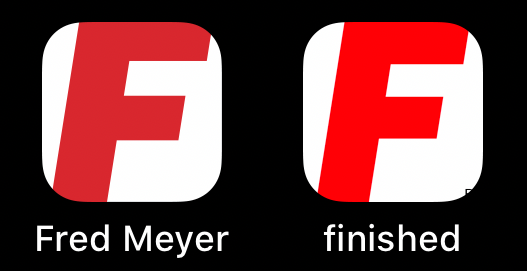
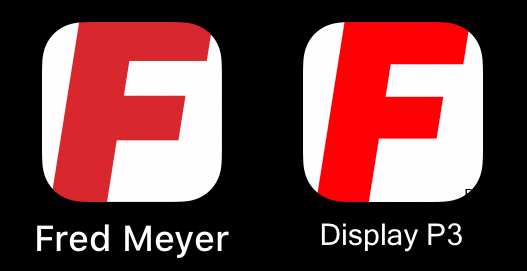
starting fresh for everyone

Changed region(s): [[0.6072, 0.8266, 0.8805, 0.9446]]

diff --git a/README.md b/README.md
@@ -67,7 +67,7 @@ Another thing that was bothering me was the new icon seemed to use a bit duller 
 
 ![xscope](https://github.com/sleeve/fredmeyer-app-icon/blob/master/screenshots/xscope.png)
 
-1. There's actually a [Fred Meyer vector logo](https://www.fredmeyer.com/content/v2/binary/image/fredmeyer_svg_logo-desktop-1556238715657.svg) on the website that has a fill color of #ED1C24.
+1. There's actually a Fred Meyer [vector logo](https://www.fredmeyer.com/content/v2/binary/image/fredmeyer_svg_logo-desktop-1556238715657.svg) on the website that has a fill color of #ED1C24.
 2. The [favicon](https://www.fredmeyer.com/favicon.ico) on the website uses #ED1C24.
 3. The [vector logo](https://upload.wikimedia.org/wikipedia/commons/7/79/Fred_Meyer_logo.svg) on Wikipedia uses #ED1C24.
 4. The [vector logo](https://www.brandeps.com/logo-download/F/Fred-Meyer-01.zip) on brandeps.com uses #ED1C24.
@@ -75,14 +75,64 @@ Another thing that was bothering me was the new icon seemed to use a bit duller 
 
 This seemed like enough evidence that #ED1C24 was the real red brand color. We'll use this as the red color when re-creating the icons. I could be totally wrong in assuming this is the correct red as the brand colors may have been recently updated. I just think it's a bit more saturated and looks better on screen so we're going with it.
 
-More recent iOS devices have wide color gamut displays so I wanted to learn more about digital color spaces and see if we could create better looking icons using the Display P3 color space. Xcode now supports using two different icon assets with for both sRGB and Display P3 color profiles. I started off by keeping the sRGB color hex code #ED1C24 and just assigning the Display P3 color profile to it. It looked amazing on screen next to the current app icon but it was way more saturated and didn't quite feel right.
+More recent iOS devices have wide color gamut displays so I wanted to learn more about digital color spaces and see if we could create better looking icons using the Display P3 color space. Xcode now supports using two different icon assets with for both sRGB and Display P3 color profiles. I started off by keeping the sRGB color hex code #ED1C24 and just assigning the Display P3 color profile to it. It looked amazing on screen next to the current app icon but it was way too vibrant and saturated. It almost looked like neon red and it just didn't feel quite right.
 
 ![display_p3](https://github.com/sleeve/fredmeyer-app-icon/blob/master/screenshots/display_p3.png)
+
+I read a lot of articles and blog posts about working with different color spaces and how to use color profiles correctly. Instead of assigning a Display P3 color profile to the same sRGB color code I should have converted the colors into Display P3. After a lot of trial and error I came to the conclusion that we wouldn't see any real benefit by adding Display P3 versions of the app icons. The red brand color is already within the sRGB color space so by converting it to Display P3 our eyes would still see the same red color. Display P3 color profiles work best on photographs and more complex artwork. You just can't really see any difference on flat app icons that use a minimal color pallet.
+
+## Pixel Fitted
+
+We pretty much have all we need now to start to re-create the icon. We were able to get a copy of the vector logo so we can copy the "F" from it and have it be as sharp as possible in all resolutions. We have the red brand color that we're going to fill the "F" with. That's about all we need to get started but there is one more improvement that I'd like to add to all the icons. It's called [pixel-fitting](https://dcurt.is/pixel-fitting). If we zoom into one of the current app icons we can see the effects of not pixel-fitting. Take a look at the horizontal edges within the "F" path. Notice how they're blurry and have a line of more pink-ish pixels where it transitions from red to white.
+
+![blurry_pixels](https://github.com/sleeve/fredmeyer-app-icon/blob/master/screenshots/blurry_pixels.png)
+
+We'll have to manually adjust these horizontal vector points for all 13 icon sizes that we need for Xcode. This is a lot more work to remove most of the fractional pixels but it's going to produce super sharp icons. The smaller icon sizes will see the most benefit. We're technically modifying the actual shape of the "F" but it shouldn't be noticeable if we do correctly.
+
+## Starting Fresh (For Everyone) 😉
+
+I think we have our plan laid out and have everything that we need now to re-create the icons. We're going to be using [Sketch](https://www.sketch.com/) as our vector editor. Here are the steps we're following starting with the largest 1024x1024px size:
+
+1. Create a 1024x1024 square and fill it with white #FFFFFF, this is our icon background.
+2. Copy the "F" vector path from the .svg we found on the website and paste it on top of the white background.
+3. Stretch and fit the "F" path (while maintaining its aspect ratio) to be as tall as the background and centered within it.
+4. Select the "F" path and fill it with the red brand color #ED1C24.
+5. In order to maintain the correct angles in the "F" path we need to draw 6 vector guidelines around the horizontal points that we'll be moving before we start pixel-fitting. These will help us place the vector points correctly and not throw off the geometry of the "F" path.
+
+![guidelines](https://github.com/sleeve/fredmeyer-app-icon/blob/master/screenshots/guidelines.png)
+
+6. Now we can zoom way into those vector points along the horizontal axis to see the fractional pixels that we want to turn into full pixels. Drag the horizontal vector point to the closest pixel edge on the y-axis and then center it within the guideline we created on the x-axis. Do this for all 6 horizontal points.
+
+![pixel_fitting](https://github.com/sleeve/fredmeyer-app-icon/blob/master/screenshots/pixel_fitting.gif)
+
+7. Hide the guideline layers so only the background and "F" path are visible.
+8. Export the icon at 1x size as a .png with an sRGB color profile and uncheck both "Interlace PNG" and "Save for web".
+
+Most designers would just stop here after creating the 1024px version of the icon and then use it to create scaled down versions of the icon. There's even an official template within Sketch that automates this super quickly. We could use this method as it's a lot faster to create all the sizes of icons but we would miss out on all the pixel-fitting improvements if we automate it. This automation also seems to be the cause of our original grey banding animation bug. The designer created the original 1024px version and kicked off the automation that down-scaled and created all the smaller icons sizes. I'm not sure what tool they used but somewhere during that procedure the grey border started to appear on most of the icon sizes.
+
+Since we're choosing to include pixel-fitting we'll need to repeat these steps for the 12 other required iOS app icon sizes. This was by far the most time consuming step of the whole project. The results turned out great though.
 
 --------------------------------------------------------------------------
 
 
-Wanted to investigate using Display P3 versions of the icon but through a lot of trial and error I'm pretty sure the difference between the versions would be negligible. I was getting confused switching between both sRGB and Display P3 color spaces/profiles. I was keeping the same 8-bit red color hex code (#ED1C24) for both the sRGB and Display P3 image export but just assigning them their respective color profiles. This was producing a correct sRGB image but by just assigning the Display P3 color profile to the Display P3 image it was making the red color way more saturated and vibrant than it really should be. At first I thought this is just what Display P3 images should look like as they're supposed to be able to display more colors that we're not used to seeing in the sRGB world. The problem is that the red sRGB color value is already within the Display P3 gamut so we shouldn't really be seeing any new crazy vibrant wider colors.
+
+Checking the exported image it has an alpha channel included within it which we don't need. pngcrush seems to remove this one with -brute. maybe be a good idea to find specific imagemagick command to remove all unneeded png chunks. what is a needed chunk though?
+
+
+Seeing some bugs or potential issues with how xcode is bundling icons? why does it create AppIcon76x76@2x~ipad.png in the .app bundle when I only have icon assets within my asset bundle? what are packed assets when looking at the assets.car file within asset catalog tinkerer? why is fred_meyer-ios_icon-srgb-180px-60pt_Normal@2x.png and fred_meyer-ios_icon-srgb-180px-60pt_Normal@3x.png the same after extracting from asset catalog tinkerer? could that be from the packed asset? is it just a bug with asset catalog tinkerer? why do files get the "_Normal" suffix added to them after using asset catalog tinkerer? why do the extracted images have more metadata included with them compared to when I added them to the project? Don't have time to dig into this anymore... I just know that the png image assets that you include within an xcode project will not necessarily match what you can extract from the Assets.car file with third party tools. Not sure if its the way Xcode compiles them or if it is the third party tools.
+
+optipng is amazing and even better than pngcrush. `optipng -v -o7 -strip all -keep image.png`
+the file size savings is great on the larger 1024px app store icon but not quite as much on the smaller images. still a slight improvement though over pngcrush as we're able to strip out a bit more of the metadata with optipng.
+
+optipng (5 test files) = 14,627 bytes (29 KB on disk)
+pngcrush (5 test files) = 21,082 bytes (33 KB on disk)
+
+learning and trying understand more about color spaces, color profiles, wide-gamut, rgb, srgb, display p3 and hex codes. sketch, imagemagick, identify, pixelmator, preview, colorsync utility, xscope, xcode, ios simulator, pngcrush, kaleidoscope, asset catalog tinkerer, acextract, apple configurator 2, iterm2, visual studio code, tower, firefox, git, github, markdown, pixelmator pro, optipng, licecap, quicktime player, homebrew,
+
+I think the outcome of this project does a lot of things correctly but I'm sure I overlooked or mis-interpreted something along the line. Would love to hear feedback from anyone if they notice anything out of the ordinary with my work.
+
+![good_job](https://media.giphy.com/media/8xgqLTTgWqHWU/giphy.gif)
+
 
 **App Logo/Icon colors:**
 
@@ -143,35 +193,3 @@ Fred-Meyer-01.eps (https://www.brandeps.com/logo-download/F/Fred-Meyer-01.zip) -
 
 #eb1c25 \
 Fred-Meyer-01.jpg (https://www.brandeps.com/logo-download/F/Fred-Meyer-01.zip) -- looks closer to fm.com svg colors.
-
-
-
-
-
-
-# Starting Fresh (For Everyone) 😉
-After the main investigation we have enough data to create a fresh new app icon set with all the fixes applied along with some bonus fixes.
-
-1. creating a new sketch document with a 1024x1024px white square background layer.
-2. open the svg we got from fm.com also within sketch, copy the "F" vector path within it and paste it in our new document over the white background
-3. select the "F" path and make sure its in front of the background layer and then update the fill color to #ed1c24 that was the color used in the original svg.
-4. stretch the "F" path to take up the full height of the 1024px background, be sure to hold shift while stretching it to maintain aspect ratio. sketch should help us out a bit by snapping to the top and bottom edges when we're close.
-5. Once the "F" path is tall enough at 1024px we need to make sure its also centered within the background, drag the "F" path around a bit and sketch should display some centering guidelines and snap to them when we're close to them.
-6. So that should be enough work to be able to now export a .png from it but lets make one more minor improvement that has to do with pixel hinting. https://dcurt.is/pixel-fitting I find it best to only use pixel hinting on the straight right angle parts of logos like these and to mostly leave the more round or angular sides of shapes/characters untouched. Moving to many vector points around will change the way the logo looks so its best to keep it to a minimum and not go too crazy trying to get every single line to fit perfectly within all pixels. you can only do so much with pixel hinting. we really only needed to fix two edges/lines of the "F" path in the 1024px version.
-7. We can now export the sketch document as a .png, 8-bit color, sRGB color profile
-8. Checking the exported image it has an alpha channel included within it which we don't need. pngcrush seems to remove this one with -brute. maybe be a good idea to find specific imagemagick command to remove all unneeded png chunks. what is a needed chunk though?
-
-
-Seeing some bugs or potential issues with how xcode is bundling icons? why does it create AppIcon76x76@2x~ipad.png in the .app bundle when I only have icon assets within my asset bundle? what are packed assets when looking at the assets.car file within asset catalog tinkerer? why is fred_meyer-ios_icon-srgb-180px-60pt_Normal@2x.png and fred_meyer-ios_icon-srgb-180px-60pt_Normal@3x.png the same after extracting from asset catalog tinkerer? could that be from the packed asset? is it just a bug with asset catalog tinkerer? why do files get the "_Normal" suffix added to them after using asset catalog tinkerer? why do the extracted images have more metadata included with them compared to when I added them to the project? Don't have time to dig into this anymore... I just know that the png image assets that you include within an xcode project will not necessarily match what you can extract from the Assets.car file with third party tools. Not sure if its the way Xcode compiles them or if it is the third party tools.
-
-optipng is amazing and even better than pngcrush. `optipng -v -o7 -strip all -keep image.png`
-the file size savings is great on the larger 1024px app store icon but not quite as much on the smaller images. still a slight improvement though over pngcrush as we're able to strip out a bit more of the metadata with optipng.
-
-optipng (5 test files) = 14,627 bytes (29 KB on disk)
-pngcrush (5 test files) = 21,082 bytes (33 KB on disk)
-
-learning and trying understand more about color spaces, color profiles, wide-gamut, rgb, srgb, display p3 and hex codes. sketch, imagemagick, identify, pixelmator, preview, colorsync utility, xscope, xcode, ios simulator, pngcrush, kaleidoscope, asset catalog tinkerer, acextract, apple configurator 2, iterm2, visual studio code, tower, firefox, git, github, markdown, pixelmator pro, optipng, licecap, quicktime player, homebrew,
-
-I think the outcome of this project does a lot of things correctly but I'm sure I overlooked or mis-interpreted something along the line. Would love to hear feedback from anyone if they notice anything out of the ordinary with my work.
-
-![good_job](https://media.giphy.com/media/8xgqLTTgWqHWU/giphy.gif)
